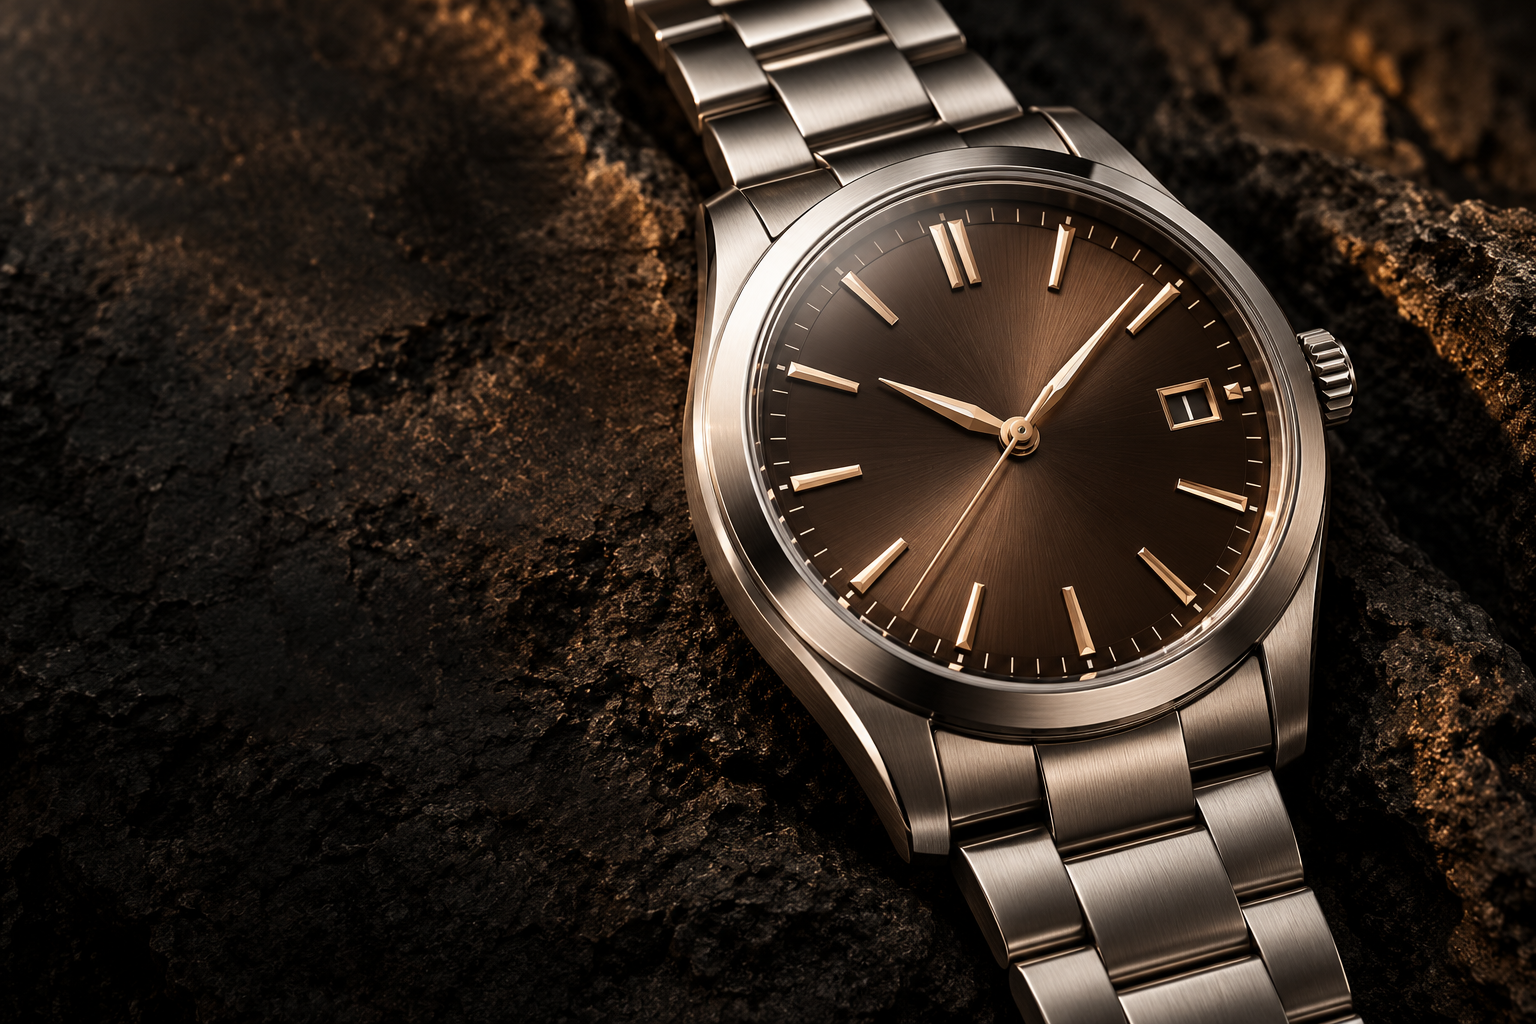
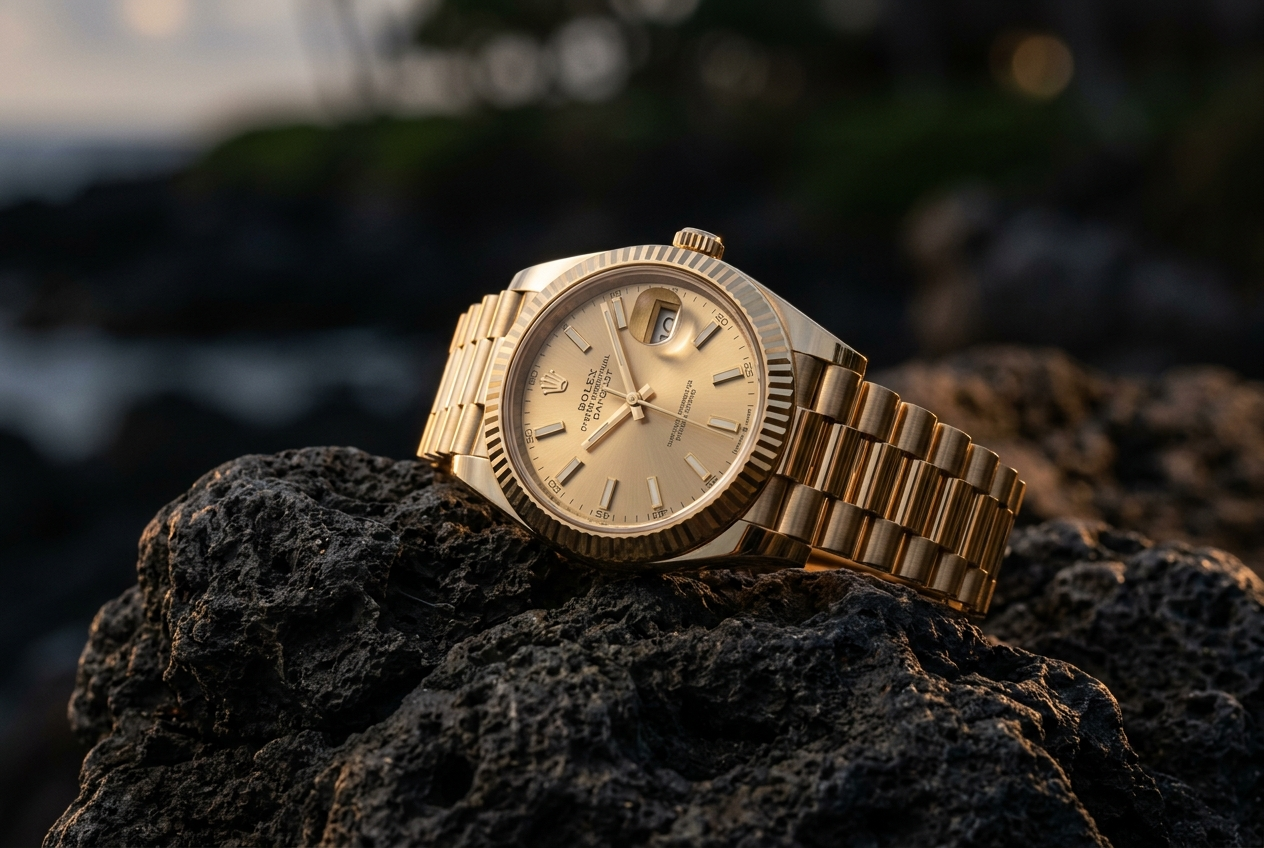
Publish unbranded Eidren collection

diff --git a/templates/shop/home.html b/templates/shop/home.html
@@ -1,8 +1,8 @@
 {% extends 'base.html' %}{% load static %}
 {% block content %}
 <section class="hero" aria-labelledby="hero-title">
-  <div class="hero-image"><img src="{% static 'images/hero-watch.png' %}" alt="A steel watch with a warm dial, photographed against sculptural dark stone" fetchpriority="high" width="1536" height="1024"><div class="hero-image-top"><span>EIDREN / OBJECT 01</span><span class="hero-edition">EDITION 001 — 2026</span></div></div>
-  <div class="hero-copy"><span class="eyebrow"><span class="small-line"></span> INDEPENDENT WATCHMAKING</span><h1 id="hero-title">Time,<br><em>made tangible.</em></h1><p>Precise proportions. Honest materials.<br>Mechanical character without the noise.</p><a class="button button-dark" href="{% url 'shop:catalog' %}">Enter the collection</a><div class="hero-footnote"><span class="hero-index">01 / 03</span><span>ATELIER 01<br>AUTOMATIC · 39 MM</span></div></div>
+  <div class="hero-image"><img src="{% static 'images/hero-eidren.png' %}" alt="Gold-tone EIDREN calendar watch photographed against sculptural dark stone" fetchpriority="high" width="1536" height="1024"><div class="hero-image-top"><span>EIDREN / OBJECT 01</span><span class="hero-edition">EDITION 001 — 2026</span></div></div>
+  <div class="hero-copy"><span class="eyebrow"><span class="small-line"></span> INDEPENDENT WATCHMAKING</span><h1 id="hero-title">Time,<br><em>made tangible.</em></h1><p>Precise proportions. Honest materials.<br>Mechanical character without the noise.</p><a class="button button-dark" href="{% url 'shop:catalog' %}">Enter the collection</a><div class="hero-footnote"><span class="hero-index">01 / 03</span><span>AUREUS CALENDAR 36<br>AUTOMATIC · 36 MM</span></div></div>
   <div class="hero-rail" aria-hidden="true"><span>SCROLL TO DISCOVER</span><i></i></div>
 </section>
 <div class="values-strip"><span>01 / PROPORTION</span><span>02 / MATERIAL</span><a href="{% url 'shop:page' 'contact' %}">03 / PERSONAL CONCIERGE</a></div>
@@ -21,6 +21,6 @@
   </div>
 </section>
 <section class="manifesto" data-reveal><span class="manifesto-index">E / 01</span><p>We remove until<br>only the <em>essential</em><br>remains.</p><div class="manifesto-meta"><span>DESIGNED WITH INTENTION</span><span>BUILT TO BE WORN</span></div></section>
-<section class="perspective-section"><div class="perspective-image"><img src="{% static 'images/watch-ivory.png' %}" alt="A dress watch with a warm ivory dial and a textured leather strap" loading="lazy" width="1024" height="1536"><span class="image-note">OBJECT 01 / IVORY</span></div><div class="perspective-copy"><span class="eyebrow">DESIGN PHILOSOPHY</span><h2>Quiet form.<br>Clear <em>purpose.</em></h2><p>Every surface has a purpose. Every proportion earns its place. EIDREN pairs classic mechanical character with a precise, contemporary point of view.</p><dl class="design-notes"><div><dt>01</dt><dd>Proportion before ornament</dd></div><div><dt>02</dt><dd>Materials that age honestly</dd></div><div><dt>03</dt><dd>Details discovered over time</dd></div></dl><a class="text-link" href="{% url 'shop:page' 'about' %}">Our point of view</a></div></section>
+<section class="perspective-section"><div class="perspective-image"><img src="{% static 'images/watch-aureus.png' %}" alt="Gold-tone EIDREN calendar watch with fluted bezel and champagne dial" loading="lazy" width="1024" height="1536"><span class="image-note">AUREUS / GOLD</span></div><div class="perspective-copy"><span class="eyebrow">DESIGN PHILOSOPHY</span><h2>Quiet form.<br>Clear <em>purpose.</em></h2><p>Every surface has a purpose. Every proportion earns its place. EIDREN pairs classic mechanical character with a precise, contemporary point of view.</p><dl class="design-notes"><div><dt>01</dt><dd>Proportion before ornament</dd></div><div><dt>02</dt><dd>Materials that age honestly</dd></div><div><dt>03</dt><dd>Details discovered over time</dd></div></dl><a class="text-link" href="{% url 'shop:page' 'about' %}">Our point of view</a></div></section>
 <section class="closing-note"><span class="eyebrow">YOUR TIME / YOUR OBJECT</span><h2>Choose what<br><em>stays with you.</em></h2><a class="button button-dark" href="{% url 'shop:catalog' %}">Find your watch</a></section>
 {% endblock %}

diff --git a/shop/management/commands/seed_demo.py b/shop/management/commands/seed_demo.py
@@ -14,37 +14,35 @@ class Command(BaseCommand):
             raise CommandError("Demo content is disabled. Use this command only in a preview environment.")
         products = [
             {
-                "slug": "atelier-01", "name": "Watch 01", "collection": "dress", "price": Decimal("60.00"),
-                "short_description": "An ivory dial. A quieter kind of statement.",
-                "description": "Clean lines, warm tones, and a considered silhouette. Atelier 01 brings a restrained point of view to the everyday dress watch.\n\nThis is a demonstration listing with concept imagery. Specifications and availability are illustrative; replace this listing with your own verified product information before selling.",
-                "image": "images/watch-ivory.png", "image_alt": "Ivory dial dress watch with a polished case and dark leather strap",
-                "movement": "Automatic · demo specification", "case_size": "38 mm", "material": "Stainless steel", "water_resistance": "5 ATM · demo specification", "strap": "Leather",
+                "slug": "aureus-calendar-36", "name": "Aureus Calendar 36", "brand": "EIDREN", "collection": "dress", "price": Decimal("299.99"),
+                "short_description": "36 mm gold-tone calendar watch with a champagne dial and three-link bracelet.",
+                "description": "Aureus Calendar 36 pairs a warm champagne dial with a fluted gold-tone bezel, day display, magnified date window, and polished three-link bracelet.",
+                "image": "images/watch-aureus.png", "image_alt": "Gold-tone 36 mm EIDREN calendar watch with fluted bezel and champagne dial",
+                "movement": "Automatic mechanical", "case_size": "36 mm", "material": "Gold-tone stainless steel", "water_resistance": "5 ATM", "strap": "Three-link bracelet",
             },
             {
-                "slug": "horizon-02", "name": "Watch 02", "collection": "chronograph", "price": Decimal("60.00"),
-                "short_description": "Precision in its most compelling form.",
-                "description": "A dark dial framed by brushed steel. Horizon 02 balances purposeful detail with a confident, architectural presence.\n\nThis is a demonstration listing with concept imagery. Specifications and availability are illustrative; replace this listing with your own verified product information before selling.",
-                "image": "images/watch-noir.png", "image_alt": "Dark dial chronograph watch with brushed stainless steel bracelet",
-                "movement": "Quartz chronograph · demo specification", "case_size": "40 mm", "material": "Stainless steel", "water_resistance": "10 ATM · demo specification", "strap": "Stainless steel bracelet",
+                "slug": "meridian-gmt-40", "name": "Meridian GMT 40", "brand": "EIDREN", "collection": "dive", "price": Decimal("299.99"),
+                "short_description": "40 mm automatic dual-time watch with a red and blue 24-hour bezel and five-link bracelet.",
+                "description": "Meridian GMT 40 brings together a high-contrast black dial, luminous markers, a red dual-time hand, and a red and blue 24-hour bezel for a distinctive travel-ready profile.",
+                "image": "images/watch-meridian.png", "image_alt": "Stainless steel 40 mm EIDREN dual-time watch with red and blue bezel and five-link bracelet",
+                "movement": "Automatic mechanical · dual-time", "case_size": "40 mm", "material": "Stainless steel and ceramic-style bezel", "water_resistance": "10 ATM", "strap": "Five-link stainless steel bracelet",
             },
             {
-                "slug": "depth-03", "name": "Watch 03", "collection": "dive", "price": Decimal("60.00"),
-                "short_description": "A little further from the ordinary.",
-                "description": "Deep green meets brushed steel in a watch designed around a spirit of exploration. An expressive accent for a thoughtfully assembled collection.\n\nThis is a demonstration listing with concept imagery. Specifications and availability are illustrative; replace this listing with your own verified product information before selling.",
-                "image": "images/watch-forest.png", "image_alt": "Forest green dial dive watch with stainless steel case and bracelet",
-                "movement": "Automatic · demo specification", "case_size": "41 mm", "material": "Stainless steel", "water_resistance": "20 ATM · demo specification", "strap": "Stainless steel bracelet",
+                "slug": "verdant-pave-40", "name": "Verdant Pavé 40", "brand": "EIDREN", "collection": "chronograph", "price": Decimal("299.99"),
+                "short_description": "Full emerald-cut crystal bezel and bracelet with deep green pavé dial and date aperture.",
+                "description": "A statement piece set with emerald-tone baguette-cut crystals across the octagonal bezel, integrated case, and link bracelet. A full pavé dial, silver-tone hands, and date window finish the look.",
+                "image": "images/watch-emerald.png", "image_alt": "Luxury emerald green baguette crystal iced out watch with green pave dial",
+                "movement": "Precision quartz", "case_size": "40 mm", "material": "Stainless steel and emerald-tone crystals", "water_resistance": "3 ATM", "strap": "Integrated crystal-set link bracelet",
             },
         ]
         for values in products:
             slug = values.pop("slug")
             product, created = Product.objects.get_or_create(
                 slug=slug,
-                defaults={**values, "stock": 12, "is_featured": True, "is_demo": True},
+                defaults={**values, "stock": 25, "is_featured": True, "is_demo": False},
             )
-            # Keep the public preview consistent when its intentional sample
-            # price or label changes, without touching any real inventory.
-            if not created and product.is_demo:
-                Product.objects.filter(pk=product.pk).update(name=values["name"], price=values["price"])
+            if not created:
+                Product.objects.filter(pk=product.pk).update(**values, is_demo=False)
         pages = {
             "about": ("A considered approach to time", "EIDREN is a watch-store concept built around considered design and the everyday ritual of wearing a watch.\n\nThis storefront is a demonstration. The store owner can replace this page with the real business story, product sourcing, and service commitments in the admin panel."),
             "contact": ("A conversation starts here", f"For questions about this store, contact {settings.STORE_EMAIL}.\n\nStore owner: replace this draft with your verified business name, contact information, location, and support hours before accepting orders."),

diff --git a/shop/migrations/0004_publish_eidren_catalog.py b/shop/migrations/0004_publish_eidren_catalog.py
@@ -1,0 +1,47 @@
+from decimal import Decimal
+
+from django.db import migrations
+
+
+PRODUCTS = (
+    {
+        "slug": "aureus-calendar-36", "name": "Aureus Calendar 36", "brand": "EIDREN", "collection": "dress", "price": Decimal("299.99"),
+        "short_description": "36 mm gold-tone calendar watch with a champagne dial and three-link bracelet.",
+        "description": "Aureus Calendar 36 pairs a warm champagne dial with a fluted gold-tone bezel, day display, magnified date window, and polished three-link bracelet.",
+        "image": "images/watch-aureus.png", "image_alt": "Gold-tone 36 mm EIDREN calendar watch with fluted bezel and champagne dial",
+        "movement": "Automatic mechanical", "case_size": "36 mm", "material": "Gold-tone stainless steel", "water_resistance": "5 ATM", "strap": "Three-link bracelet",
+    },
+    {
+        "slug": "meridian-gmt-40", "name": "Meridian GMT 40", "brand": "EIDREN", "collection": "dive", "price": Decimal("299.99"),
+        "short_description": "40 mm automatic dual-time watch with a red and blue 24-hour bezel and five-link bracelet.",
+        "description": "Meridian GMT 40 brings together a high-contrast black dial, luminous markers, a red dual-time hand, and a red and blue 24-hour bezel for a distinctive travel-ready profile.",
+        "image": "images/watch-meridian.png", "image_alt": "Stainless steel 40 mm EIDREN dual-time watch with red and blue bezel and five-link bracelet",
+        "movement": "Automatic mechanical · dual-time", "case_size": "40 mm", "material": "Stainless steel and ceramic-style bezel", "water_resistance": "10 ATM", "strap": "Five-link stainless steel bracelet",
+    },
+    {
+        "slug": "verdant-pave-40", "name": "Verdant Pavé 40", "brand": "EIDREN", "collection": "chronograph", "price": Decimal("299.99"),
+        "short_description": "Full emerald-cut crystal bezel and bracelet with deep green pavé dial and date aperture.",
+        "description": "A statement piece set with emerald-tone baguette-cut crystals across the octagonal bezel, integrated case, and link bracelet. A full pavé dial, silver-tone hands, and date window finish the look.",
+        "image": "images/watch-emerald.png", "image_alt": "Emerald-tone baguette crystal watch with green pavé dial",
+        "movement": "Precision quartz", "case_size": "40 mm", "material": "Stainless steel and emerald-tone crystals", "water_resistance": "3 ATM", "strap": "Integrated crystal-set link bracelet",
+    },
+)
+
+
+def publish_catalog(apps, schema_editor):
+    Product = apps.get_model("shop", "Product")
+    Product.objects.filter(slug__in=("day-date-36-gold", "gmt-master-ii-pepsi", "emerald-baguette-pave")).update(is_active=False)
+    for values in PRODUCTS:
+        slug = values["slug"]
+        defaults = {key: value for key, value in values.items() if key != "slug"}
+        defaults.update(stock=25, is_active=True, is_featured=True, is_demo=False)
+        Product.objects.update_or_create(slug=slug, defaults=defaults)
+
+
+def remove_catalog(apps, schema_editor):
+    apps.get_model("shop", "Product").objects.filter(slug__in=[product["slug"] for product in PRODUCTS]).delete()
+
+
+class Migration(migrations.Migration):
+    dependencies = [("shop", "0003_order_customer_order_terms_accepted_at_savedcart")]
+    operations = [migrations.RunPython(publish_catalog, remove_catalog)]
